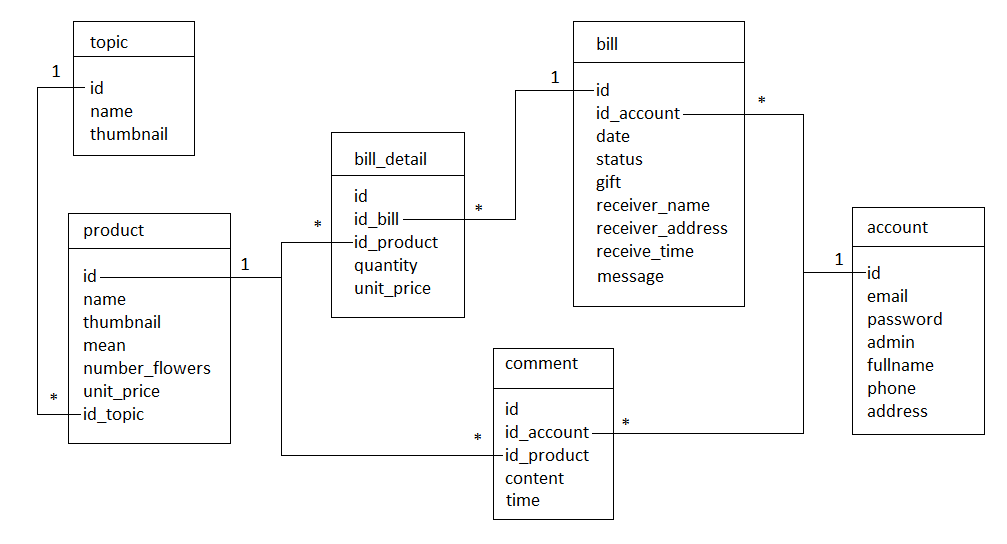
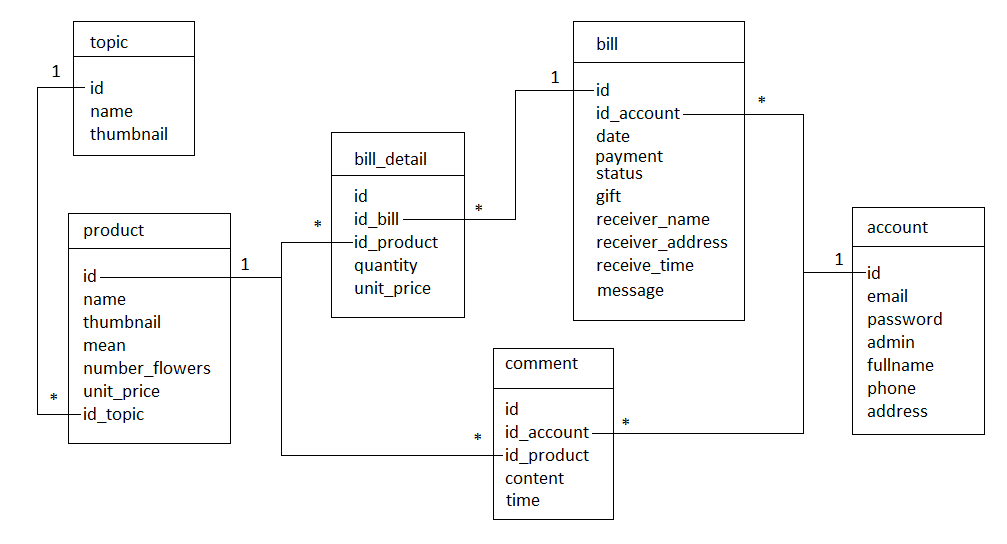
cart

Changed region(s): [[0.5849, 0.2812, 0.7388, 0.5938]]

diff --git a/mvc/views/pages/checkout.php b/mvc/views/pages/checkout.php
@@ -1,4 +1,8 @@
-<div class="hero-wrap hero-bread" style="background-image: url('images/bg-2.jpg')">
+<?php
+$billId = json_decode($data['billId']);
+$total = json_decode($data['total']);
+?>
+<div class="hero-wrap hero-bread" style="background-image: url('<?php echo $appRootURL ?>/public/home/images/bg-2.jpg')">
     <div class="container">
         <div class="
             row
@@ -18,107 +22,15 @@
     <div class="container">
         <div class="row justify-content-center">
             <div class="col-xl-7 ftco-animate">
-                <form action="#" class="billing-form">
-                    <h3 class="mb-4 billing-heading">Thông tin</h3>
-                    <div class="row align-items-end">
-                        <div class="col-md-6">
-                            <div class="form-group">
-                                <label for="firstname">Họ</label>
-                                <input type="text" class="form-control" placeholder="" />
-                            </div>
-                        </div>
-                        <div class="col-md-6">
-                            <div class="form-group">
-                                <label for="lastname">Tên</label>
-                                <input type="text" class="form-control" placeholder="" />
-                            </div>
-                        </div>
-                        <div class="w-100"></div>
-                        <!-- <div class="col-md-12">
-								<div class="form-group">
-									<label for="country">State / Country</label>
-									<div class="select-wrap">
-										<div class="icon"><span class="ion-ios-arrow-down"></span></div>
-										<select name="" id="" class="form-control">
-											<option value="">France</option>
-											<option value="">Italy</option>
-											<option value="">Philippines</option>
-											<option value="">South Korea</option>
-											<option value="">Hongkong</option>
-											<option value="">Japan</option>
-										</select>
-									</div>
-								</div>
-							</div> -->
-                        <div class="w-100"></div>
-                        <div class="col-md-12">
-                            <div class="form-group">
-                                <label for="streetaddress">Địa chỉ</label>
-                                <input type="text" class="form-control" placeholder="" />
-                            </div>
-                        </div>
-
-                        <div class="w-100"></div>
-                        <div class="col-md-6">
-                            <div class="form-group">
-                                <label for="phone">Số điện thoại</label>
-                                <input type="text" class="form-control" placeholder="" />
-                            </div>
-                        </div>
-                        <div class="w-100"></div>
-
-                        <div class="form-group">
-                            <div class="col-md-12">
-                                <div class="checkbox">
-                                    <label><input type="checkbox" value="" class="mr-2" /> Quà
-                                        tặng</label>
-                                </div>
-                            </div>
-                        </div>
-                        <div class="w-100"></div>
-
-                        <div class="col-md-12">
-                            <div class="form-group">
-                                <label for="streetaddress">Lời nhắn</label>
-                                <textarea name="" id="message" cols="30" rows="5" class="form-control"></textarea>
-                            </div>
-                        </div>
-                    </div>
-                </form>
-                <!-- END -->
-            </div>
-            <div class="col-xl-5">
-                <div class="row mt-5 pt-3">
-                    <div class="col-md-12 d-flex mb-5">
-                        <div class="cart-detail cart-total p-3 p-md-4">
-                            <h3 class="billing-heading mb-4">Hóa đơn</h3>
-                            <p class="d-flex">
-                                <span>Tạm tính</span>
-                                <span>200.000</span>
-                            </p>
-                            <p class="d-flex">
-                                <span>Phí vận chuyển</span>
-                                <span>0</span>
-                            </p>
-                            <p class="d-flex">
-                                <span>Giảm giá</span>
-                                <span>10.000</span>
-                            </p>
-                            <hr />
-                            <p class="d-flex total-price">
-                                <span>Tổng tiền</span>
-                                <span>190.000</span>
-                            </p>
-                        </div>
-                    </div>
-                    <div class="col-md-12">
-                        <div class="cart-detail p-3 p-md-4">
+                <div class="col-md-12">
+                    <div class="cart-detail p-3 p-md-4">
+                        <form action="<?php echo $appRootURL ?>/home/payment/<?php echo $billId ?>" id="receiver-info-form" class="billing-form" method="post">
                             <h3 class="billing-heading mb-4">Phương thức thanh toán</h3>
+                            <input type="hidden" name="_token" value="{{csrf_token()}}" />
                             <div class="form-group">
                                 <div class="col-md-12">
                                     <div class="radio">
-                                        <label><input type="radio" name="optradio" class="mr-2" />
-                                            Chuyển khoản</label>
+                                        <label><input type="radio" name="val-payment" value="1" class="mr-2" /> Chuyển khoản</label>
                                     </div>
                                     <div>
                                         <ul>
@@ -133,14 +45,85 @@
                             <div class="form-group">
                                 <div class="col-md-12">
                                     <div class="radio">
-                                        <label><input type="radio" name="optradio" class="mr-2" />
+                                        <label><input type="radio" name="val-payment" value="2" class="mr-2" checked/>
                                             Ship COD (Thanh toán khi nhận hàng)</label>
                                     </div>
                                 </div>
                             </div>
 
-                            <p>
-                                <a href="#" class="btn btn-primary py-3 px-4">Thanh toán</a>
+                            <a data-toggle="collapse" href="#receiver-info" role="button" aria-expanded="false" aria-controls="collapseExample">
+                                <h5 class="my-4">Mua làm quà tặng</h5>
+                            </a>
+                            <div class="collapse border m-3 p-3" id="receiver-info">
+                                <h3 class="mb-4 billing-heading">Thông tin người nhận</h3>
+                                <div class="row align-items-end">
+                                    <div class="col-md-12">
+                                        <div class="form-group">
+                                            <div class="checkbox">
+                                                <!-- <label><input type="checkbox" name="val-gift" class="mr-2" /> Quà tặng</label> -->
+                                                <span class="mr-3" style="color:red">Làm quà tặng?</span>
+                                                <label class="mr-3"><input type="radio" name="val-gift" value="1" class="mr-2"/> Có</label>
+                                                <label><input type="radio" name="val-gift" value="0" class="mr-2" checked/> Không</label>
+                                            </div>
+                                        </div>
+                                    </div>
+                                    <div class="col-md-12">
+                                        <div class="form-group">
+                                            <label for="firstname">Họ và tên</label>
+                                            <input type="text" name="val-receivername" class="form-control" placeholder="" />
+                                        </div>
+                                    </div>
+                                    <div class="w-100"></div>
+                                    <div class="col-md-12">
+                                        <div class="form-group">
+                                            <label for="streetaddress">Số điện thoại, Địa chỉ</label>
+                                            <input type="text" name="val-receiveraddress" class="form-control" placeholder="0841 234 567, ABC XYZ ..." />
+                                        </div>
+                                    </div>
+                                    <div class="w-100"></div>
+                                    <div class="col-md-12">
+                                        <div class="form-group">
+                                            <label for="phone">Thời điểm nhận</label>
+                                            <input type="text" name="val-receivetime" class="form-control" placeholder="VD: 14h30 21/12/2021" />
+                                        </div>
+
+                                    </div>
+                                    <div class="w-100"></div>
+                                    <div class="col-md-12">
+                                        <div class="form-group">
+                                            <label for="streetaddress">Lời nhắn</label>
+                                            <textarea name="val-message" id="message" cols="30" rows="5" class="form-control"></textarea>
+                                        </div>
+                                    </div>
+                                </div>
+                            </div>
+                            <button type="submit" class="btn btn-primary">Thanh toán</button>
+                        </form>
+                    </div>
+                </div>
+                <!-- END -->
+            </div>
+            <div class="col-xl-5">
+                <div class="row">
+                    <div class="col-md-12 d-flex mb-5">
+                        <div class="cart-detail cart-total p-3 p-md-4">
+                            <h3 class="billing-heading mb-4">Hóa đơn</h3>
+                            <p class="d-flex">
+                                <span>Tạm tính</span>
+                                <span><?php echo number_format($total, 0, ',', '.') ?> đ</span>
+                            </p>
+                            <p class="d-flex">
+                                <span>Phí vận chuyển</span>
+                                <span>0</span>
+                            </p>
+                            <p class="d-flex">
+                                <span>Giảm giá</span>
+                                <span>0</span>
+                            </p>
+                            <hr />
+                            <p class="d-flex total-price">
+                                <span>Tổng tiền</span>
+                                <span><?php echo number_format($total, 0, ',', '.') ?> VNĐ</span>
                             </p>
                         </div>
                     </div>

diff --git a/mvc/controllers/home.php b/mvc/controllers/home.php
@@ -16,7 +16,9 @@ class Home extends Controller {
         if (isset($_SESSION['account'])) {
             $accountId = $_SESSION['account']->{'id'};
             $carts = json_decode($this->billModel->GetCartByAccount($accountId));
-            $_SESSION['numCart'] = json_decode($this->billDetailModel->CountNumCartByBillId($carts[0]->{'id'}));
+            if (count($carts) == 1) {
+                $_SESSION['numCart'] = json_decode($this->billDetailModel->CountNumCartByBillId($carts[0]->{'id'}));
+            }
         }
     }
 
@@ -76,14 +78,18 @@ class Home extends Controller {
         $billDetails = json_encode([]);
         if (count($billIds) > 0) {
             $billDetails = $this->billDetailModel->GetBillDetailsByBillId($billIds[0]);
+        } else {
+            $this->billModel->AddCart($accountId);
         }
+        $carts = json_decode($this->billModel->GetCartByAccount($accountId));
 
         $products = $this->productModel->GetProducts();
 
         $this->view("home", [
             "pages" => "cart",
             "billDetails" => $billDetails,
-            "products" => $products
+            "products" => $products,
+            "billId" => $carts[0]->{'id'}
         ]);
     }
 
@@ -130,11 +136,19 @@ class Home extends Controller {
         header("Location: $this->appRootURL/home/cart");
     }
 
-    function Checkout() {
+    function Checkout($billId, $total) {
         $this->view("home", [
-            "pages" => "checkout"
+            "pages" => "checkout",
+            "billId" => $billId,
+            "total" => $total
         ]);
     }
 
+    function Payment($billId) {
+        $this->billModel->UpdateBill($billId, $_POST['val-payment'], $_POST['val-gift'], $_POST['val-receivername'],
+            $_POST['val-receiveraddress'], $_POST['val-receivetime'], $_POST['val-message']);
+
+        header("Location: $this->appRootURL/home/cart");
+    }
 }
 ?>

diff --git a/mvc/views/pages/bill_detail.php b/mvc/views/pages/bill_detail.php
@@ -1,7 +1,7 @@
 <?php
 $billDetails = json_decode($data['billDetails']);
 $bill = $data['bill'][0];
-$customer = json_decode($data['customer']);
+$customer = $data['customer'];
 $products = json_decode($data['products']);
 ?>
 <div class="content-body">
@@ -40,13 +40,11 @@ $products = json_decode($data['products']);
                     <div id="invoice-mid">
                         <div class="clientlogo"></div>
                         <div class="invoice-info">
-                            <?php foreach ($customer as $row) { ?>
-                            <h2><?php echo $row->{'fullname'} ?></h2>
-                            <p><?php echo $row->{'email'} ?>
-                                <br><?php echo $row->{'phone'} ?>
+                            <h2><?php echo $customer->{'fullname'} ?></h2>
+                            <p><?php echo $customer->{'email'} ?>
+                                <br><?php echo $customer->{'phone'} ?>
                                 <br>
                             </p>
-                            <?php } ?>
                         </div>
                         <div id="project">
                             <h2>Tình trạng đơn hàng</h2>
@@ -61,6 +59,10 @@ $products = json_decode($data['products']);
                                         break;
                                 }
                                 ?>
+                            </p>
+                            <p>
+                                Số điện thoại: <?php echo $customer->{'phone'} ?> <br>
+                                Địa chỉ: <?php echo $customer->{'address'} ?>
                             </p>
                         </div>
                     </div>

diff --git a/mvc/models/BillModel.php b/mvc/models/BillModel.php
@@ -66,8 +66,8 @@ class BillModel extends Database {
         return json_encode($arr);
     }
 
-    public function GetBillIdByAccountAndStatus($accountId, $status) {
-        $qr = "SELECT `id` FROM `bill` WHERE `id_account`=$accountId AND `status`=$status;";
+    public function GetBillIdByGift($isGift) {
+        $qr = "SELECT `id` FROM `bill` WHERE `gift`=$isGift;";
         $rs = $this->conn->query($qr);
         
         $arr = array();
@@ -77,8 +77,8 @@ class BillModel extends Database {
         return json_encode($arr);
     }
 
-    public function GetBillIdByGift($isGift) {
-        $qr = "SELECT `id` FROM `bill` WHERE `gift`=$isGift;";
+    public function GetBillIdByAccountAndStatus($accountId, $status) {
+        $qr = "SELECT `id` FROM `bill` WHERE `id_account`=$accountId AND `status`=$status;";
         $rs = $this->conn->query($qr);
         
         $arr = array();
@@ -117,6 +117,12 @@ class BillModel extends Database {
 
     public function UpdateBillStatus($id, $status) {
         $qr = "UPDATE `bill` SET `status`=$status WHERE `id`=$id;";
+        $this->conn->query($qr);
+    }
+
+    public function UpdateBill($id, $payment, $gift, $receiverName, $receiverAddress, $receiveTime, $message) {
+        $qr = "UPDATE `bill` SET `date`=now(),`payment`=$payment,`status`=1,`gift`=$gift,`receiver_name`='$receiverName',
+                `receiver_address`='$receiverAddress',`receive_time`='$receiveTime',`message`='$message' WHERE `id`=$id;";
         $this->conn->query($qr);
     }
 

diff --git a/mvc/views/pages/cart.php b/mvc/views/pages/cart.php
@@ -1,6 +1,7 @@
 <?php
 $billDetails = json_decode($data['billDetails']);
 $products = json_decode($data['products']);
+$billId = json_decode($data['billId']);
 $total = 0;
 ?>
 <div class="hero-wrap hero-bread" style="background-image: url('<?php echo $appRootURL ?>/public/home/images/bg-2.jpg')">
@@ -122,7 +123,9 @@ $total = 0;
                     </p>
                 </div>
                 <p>
-                    <a href="checkout.html" class="btn btn-primary py-3 px-4">Tiến hành thanh toán</a>
+                    <?php if ($total > 0) { ?>
+                    <a href="<?php echo $appRootURL ?>/home/checkout/<?php echo $billId ?>/<?php echo $total ?>" class="btn btn-primary py-3 px-4">Tiến hành thanh toán</a>
+                    <?php } ?>
                 </p>
             </div>
         </div>

diff --git a/mvc/controllers/admin.php b/mvc/controllers/admin.php
@@ -287,14 +287,14 @@ class Admin extends Controller {
         $billDetails = $this->billDetailModel->GetBillDetailsByBillId($billId);
         $bill = $this->billModel->GetBill($billId);
         $billJs = json_decode($bill);
-        $customer = $this->accountModel->GetAccount($billJs[0]->{'id_account'});
+        $customer = json_decode($this->accountModel->GetAccount($billJs[0]->{'id_account'}));
         $products = $this->productModel->GetProducts();
 
         $this->view("admin", [
             "pages" => "bill_detail",
             "billDetails" => $billDetails,
             "bill" => $billJs,
-            "customer" => $customer,
+            "customer" => $customer[0],
             "products" => $products
         ]);
     }
